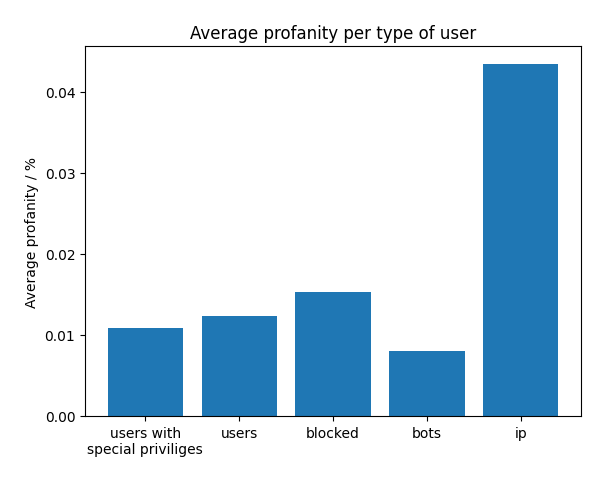
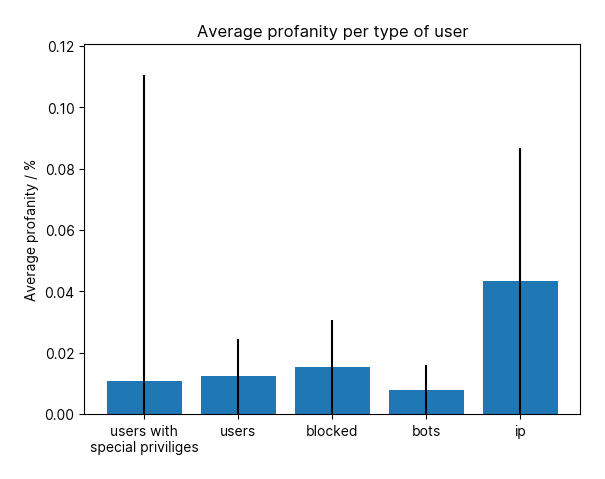
add error to 14 and add ratio plot

Changed region(s): [[0.0298, 0.0585, 0.9521, 0.9645]]

diff --git a/nsdb/plot.py b/nsdb/plot.py
@@ -1107,10 +1107,10 @@ def profanityAll(cursor, i, plotDir, dataDir, dryrun):
             file.write(str(specialUsersData) + "\n" + str(specialUsersStd))
     else:
         specialUsersData = 0.0109
-        # specialUsersStd = 0.0109
+        specialUsersStd = 0.09959333924192307
 
     data.append(("users with\nspecial priviliges", specialUsersData))
-    # std.append(specialUsersStd)
+    std.append(specialUsersStd)
 
     users = """select avg(edit.ins_vulgarity), std(edit.ins_vulgarity)
     from edit
@@ -1126,9 +1126,10 @@ def profanityAll(cursor, i, plotDir, dataDir, dryrun):
             file.write(str(userData) + "\n" + str(userStd))
     else:
         userData = 0.0123
+        userStd = 0.11028484312384287
 
     data.append(("users", userData))
-    # std.append(userData)
+    std.append(userData)
 
     blocked = """select avg(edit.ins_vulgarity), std(edit.ins_vulgarity)
     from edit
@@ -1144,9 +1145,10 @@ def profanityAll(cursor, i, plotDir, dataDir, dryrun):
             file.write(str(blockedData) + "\n" + str(blockedStd))
     else:
         blockedData = 0.0153
+        blockedStd = 0.12255422751902714
 
     data.append(("blocked", blockedData))
-    # std.append(blockedData)
+    std.append(blockedData)
 
     bots = """select avg(edit.ins_vulgarity), std(edit.ins_vulgarity)
     from edit
@@ -1162,9 +1164,10 @@ def profanityAll(cursor, i, plotDir, dataDir, dryrun):
             file.write(str(botsData) + "\n" + str(botsStd))
     else:
         botsData = 0.0080
+        botsStd = 0.08899117278773609
 
     data.append(("bots", botsData))
-    # std.append(botsData)
+    std.append(botsData)
 
     ipAddress = """select avg(edit.ins_vulgarity), std(edit.ins_vulgarity)
     from edit
@@ -1180,14 +1183,16 @@ def profanityAll(cursor, i, plotDir, dataDir, dryrun):
             file.write(str(ipAddressData) + "\n" + str(ipAddressStd))
     else:
         ipAddressData = 0.0434
+        ipAddressStd = 0.20379850302087404
 
     data.append(("ip", ipAddressData))
-    # std.append(ipAddressData)
+    std.append(ipAddressData)
 
     plt.title("Average profanity per type of user")
     plt.ylabel("Average profanity / %")
-    # plt.bar(*zip(*data), yerr=std)
-    plt.bar(*zip(*data))
+    plt.bar(*zip(*data), yerr=std)
+    plt.ylim(bottom=0)
+    # plt.bar(*zip(*data))
     plt.savefig(figname, bbox_inches="tight", pad_inches=0.25)
     plt.close()
 
@@ -2442,6 +2447,48 @@ def aggregations(cursor, i, plotDir, dataDir, dryrun):
     plt.close()
 
 
+def booleanPieCharts(cursor, i, plotDir, dataDir, dryrun):
+    figname = plotDir + str(i) + "-" + "booleanPieCharts"
+    plt.figure()
+
+    query = """select count(*), sum(comment_copyedit = 1), sum(comment_personal_life = 1), sum(ins_vulgarity = 1), sum(reverted = 1), sum(blanking = 1) from edit;"""
+
+    if not dryrun:
+        cursor.execute(query,)
+        data = cursor.fetchall()
+        data = list(*data)
+        # data = list(map(lambda x: float(x), data))
+        # print(data)
+        population = data.pop(0)
+        with open(dataDir + str(i) + ".txt", "w") as file:
+            file.write(str(data) + "\n" + str(population))
+    else:
+        data = [29544, 12977, 828078, 1695274, 129688]
+        population = 57822696
+
+    columns = ["comment_copyedit", "comment_personal_life", "ins_vulgarity", "reverted", "blanking"]
+
+    # create a figure with two subplots
+    fig, axs = plt.subplots(2,3)
+
+    fig.suptitle("Ratios of binary features")
+
+    axs = axs.ravel()
+
+    # plot each pie chart in a separate subplot
+    for key, value in enumerate(columns):
+        axs[key].set_title(value)
+        print([population, data[key]])
+        axs[key].pie([population, data[key]])
+
+    axs[-1].axis('off')
+    
+    plt.gcf().set_size_inches(8, 6)
+
+    plt.savefig(figname, bbox_inches="tight", pad_inches=0.25)
+    plt.close()
+    
+
 # --------------------------------------------------------------------------------------
 
 
@@ -2568,6 +2615,10 @@ def plot(plotDir: str = "../plots/", dryrun=False):
     # 22
     i = i + 1
     # aggregations(cursor, i, plotDir, dataDir, dryrun)
+
+    # 23
+    i = i + 1
+    # booleanPieCharts(cursor, i, plotDir, dataDir, dryrun)
 
     if not dryrun:
         cursor.close()

diff --git a/README.md b/README.md
@@ -13,7 +13,7 @@ scripts to parallelise and to only import necessary information to the database.
 **Example Queries**
 |                           |                       |                       |
 |---------------------------|-----------------------|-----------------------|
-| ![image](plots/3-log.png) | ![image](plots/8.png) | ![image](plots/9.png) |
+| ![image](plots/11-distributionOfEditsPerNamespace.png) | ![image](plots/19-averageAllSpecial.png) | ![image](plots/21-compositionOfUser.png) |
 
 ## Contents
 

diff --git a/plots/README.md b/plots/README.md
@@ -69,3 +69,6 @@
 
 ### 22 Aggregations
 ![plot](22-aggregations.png)
+
+### 23 Boolean Pie Charts
+![plot](23-booleanPieCharts.png)
